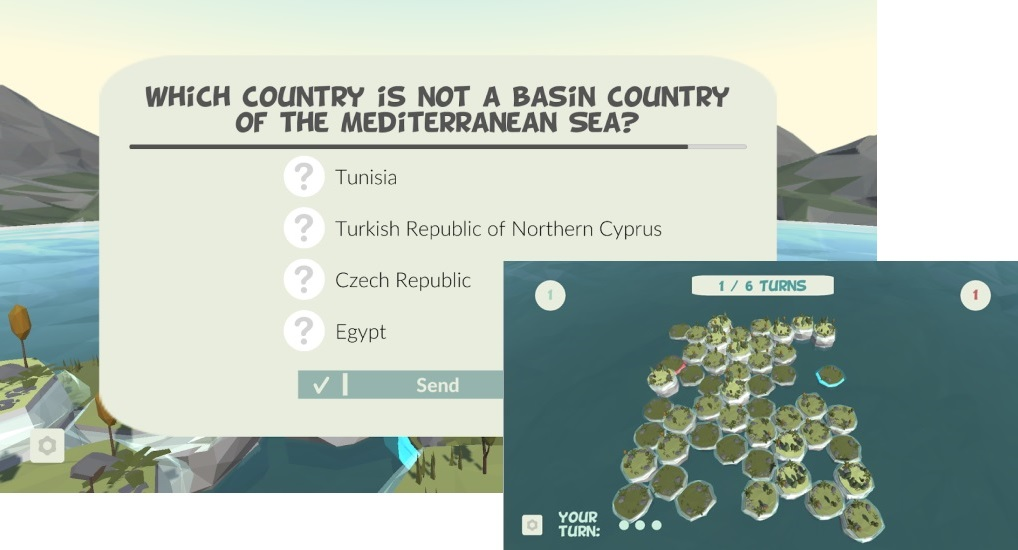
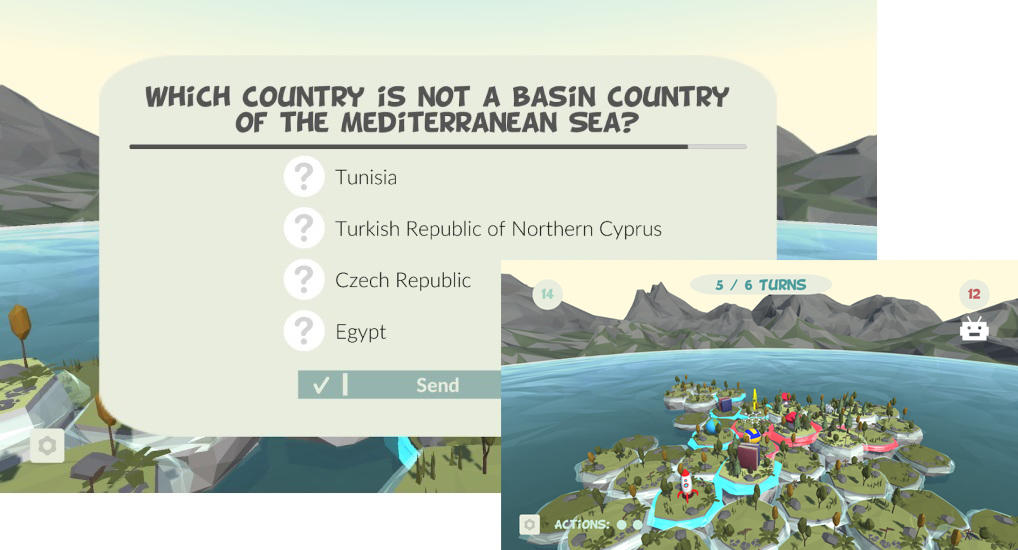
some styling changes, changed screenshots

Changed region(s): [[0.4872, 0.4636, 1.0, 1.0]]

diff --git a/src/constants/constants.js b/src/constants/constants.js
@@ -3,12 +3,18 @@
 
 import screen1 from "../assets/images/screen2.png"
 import screen2 from "../assets/images/screen10.png"
+import screen3 from "../assets/images/screen1.png"
+import screen4 from "../assets/images/screen3.png"
 
 
 export const screenshots= [
   { src:screen2,
   } ,
 { src:screen1,
+} ,
+{ src:screen3,
+} ,
+{ src:screen4,
 } ,
 ]
 
@@ -189,8 +195,8 @@ htw:[
 }
 ];
 
-import screenshot2 from "../assets/images/screenshot-2.jpg"
-import screenshot3 from "../assets/images/screenshot-3.jpg"
+import screenshot2 from "../assets/images/screenshot-2.jpeg"
+import screenshot3 from "../assets/images/screenshot-3.png"
 
 export const qWikiHistory = [
 {

diff --git a/src/components/organisms/ReportPage/tabs/ReportList.js b/src/components/organisms/ReportPage/tabs/ReportList.js
@@ -235,7 +235,7 @@ export default function ReportList ({ openIssues = true }) {
     fetchData()
   }, [openIssues])
 
-  return <div>
+  return <Container75>
     <Row>
       <Col x>
         <Heading type='H1'>{openIssues ? 'Open reports' : 'Closed reports'}</Heading>
@@ -246,7 +246,7 @@ export default function ReportList ({ openIssues = true }) {
         {apiResponse.map((issue, idx) => <SingleReport report={parseReportFromIssue(issue)} issue={issue} key={idx} />)}
       </Accordion>
       : 'Loading…'}
-</div>
+  </Container75>
 }
 
 ReportList.propTypes = {

diff --git a/src/components/organisms/SparqlPage/sparqlPage.scss b/src/components/organisms/SparqlPage/sparqlPage.scss
@@ -3,7 +3,7 @@
 .contribute-container {
   .contribute-header {
     height: 280px;
-    background: linear-gradient(to bottom, rgba(3, 93 ,93, 0.75), rgba(3, 93 ,93, 0.75)), url("../../../../src/assets/images/slide-1.jpg");
+    background: linear-gradient(to bottom, rgba(3, 93 ,93, 0.75), rgba(3, 93 ,93, 0.75)), url("../../../../src/assets/images/screen10.png");
     background-repeat: no-repeat;
     background-size: cover;
     background-position: center;

diff --git a/src/components/organisms/AboutPage/aboutPage.scss b/src/components/organisms/AboutPage/aboutPage.scss
@@ -29,6 +29,13 @@
         flex-direction: row;
       }
 
+      .timeline-first-container{
+
+        .timeline-img {
+          width: 80%;
+        }
+      }
+
       .timeline-img {
         width: 100%;
       }
@@ -191,6 +198,9 @@
     .timeline-first-container,
     .timeline-second-container {
       flex-direction: column !important;
+      .timeline-img {
+        width: 100% !important;
+      }
     }
 
     .timeline-second-container {

diff --git a/src/components/molecules/Minigame/minigame.scss b/src/components/molecules/Minigame/minigame.scss
@@ -1,6 +1,6 @@
 @import "../../../../src/assets/variables.scss";
 .minigame_container{
-  background-image: linear-gradient(0deg, rgba(2, 64, 64, 0.7), rgba(2, 64, 64, 0.7)), url("../../../../src/assets/images/background.jpg");
+  background-image: linear-gradient(0deg, rgba(2, 64, 64, 0.7), rgba(2, 64, 64, 0.7)), url("../../../../src/assets/images/screen10.png");
   background-size: cover;
   position: relative;
   text-align: center;

diff --git a/src/components/molecules/Slideshow/Slideshow.js b/src/components/molecules/Slideshow/Slideshow.js
@@ -18,6 +18,12 @@ const Slideshow = () => {
                 <div>
                     <img  src={screenshots[1].src} />
                 </div>
+                <div>
+                    <img  src={screenshots[2].src} />
+                </div>
+                <div>
+                    <img  src={screenshots[3].src} />
+                </div>
             </Carousel>
     )
 }

diff --git a/src/components/organisms/LandingPage/landingPage.scss b/src/components/organisms/LandingPage/landingPage.scss
@@ -66,7 +66,7 @@
         rgba(3, 93, 93, 0.75),
         rgba(3, 93, 93, 0.75)
       ),
-      url("../../../../src/assets/images/slide-1.jpg");
+      url("../../../../src/assets/images/screen10.png");
     background-repeat: no-repeat;
     background-size: cover;
     background-position: center;
